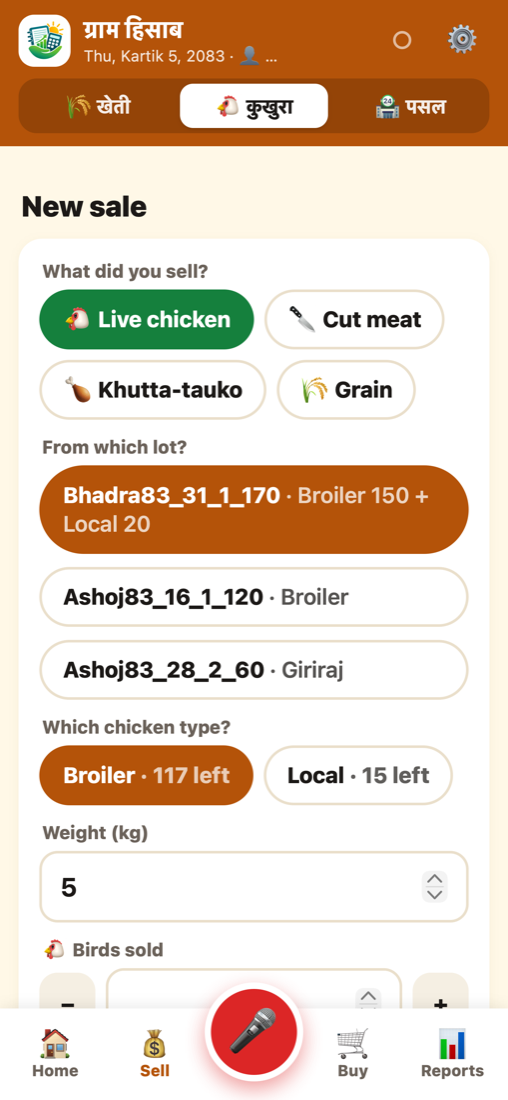
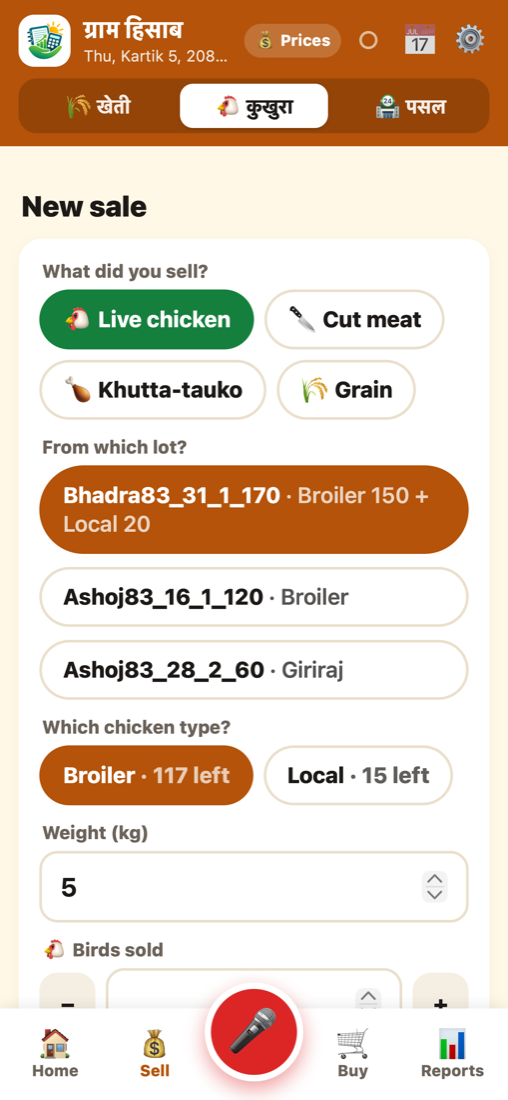
Nepali calendar (पात्रो): month view with entry dots and totals, day details incl. Kheti, 📅 date picker in every form, AD⇄BS converter

diff --git a/assets/calendar.js b/assets/calendar.js
@@ -1,0 +1,153 @@
+/* Gram Hisab — 📅 Nepali calendar (पात्रो)
+   1) A month view (header 📅): BS days in Devanagari with the AD date small, Saturdays in red, today ringed,
+      dots for days that have Kheti / poultry / shop entries, month totals; tap a day to see everything on it.
+   2) A tap-to-pick calendar under every date field (the 📅 button next to the day / month / year boxes).
+   3) AD ⇄ BS date converter. */
+'use strict';
+
+const NE_DIGITS = '०१२३४५६७८९';
+const neNum = n => String(n).replace(/\d/g, d => NE_DIGITS[d]);
+const WEEK_NE = ['आइत', 'सोम', 'मङ्गल', 'बुध', 'बिही', 'शुक्र', 'शनि'];
+const AD_MON = ['Jan', 'Feb', 'Mar', 'Apr', 'May', 'Jun', 'Jul', 'Aug', 'Sep', 'Oct', 'Nov', 'Dec'];
+const POULTRY_KINDS = ['sale', 'grainsale', 'purchase', 'event'];
+const weekday = ad => new Date(ad + 'T12:00:00').getDay();
+let calYM = null;
+
+// money spent on Kheti by one record (wages, machine + fuel, seed / fertilizer)
+function khetiCostOf(r) {
+  if (r.kind === 'fwork') return Number(r.amount) || (typeof fworkAmount === 'function' ? fworkAmount(r) : 0);
+  if (r.kind === 'machine') return (Number(r.hireAmount) || 0) + (Number(r.fuelCost) || 0);
+  if (r.kind === 'finput') return Number(r.cost) || 0;
+  return 0;
+}
+// what happened on each day of a BS month: { adDate: {kheti, poultry, shop} } plus month totals
+function monthMarks(y, m) {
+  const from = bsToAd(y, m, 1), to = bsToAd(y, m, bsDays(y, m));
+  const marks = {}, tot = { sales: 0, kheti: 0, shop: 0, bought: 0 };
+  for (const id in db.records) {
+    const r = db.records[id];
+    if (hidden(r) || !r.date || r.date < from || r.date > to || r.kind === 'audit' || r.kind === 'setting') continue;
+    const k = marks[r.date] || (marks[r.date] = {});
+    if (typeof KHETI_KINDS !== 'undefined' && KHETI_KINDS.includes(r.kind)) { k.kheti = 1; tot.kheti += khetiCostOf(r); }
+    else if (POULTRY_KINDS.includes(r.kind)) { k.poultry = 1; if (r.kind === 'sale' || r.kind === 'grainsale') tot.sales += Number(r.amount) || 0; if (r.kind === 'purchase') tot.bought += Number(r.amount) || 0; }
+    else if (r.kind === 'shop') { k.shop = 1; tot.shop += (Number(r.cash) || 0) + (Number(r.qr) || 0); }
+  }
+  return { marks, tot };
+}
+function adRangeLabel(y, m) {
+  const a = bsToAd(y, m, 1).split('-').map(Number), b = bsToAd(y, m, bsDays(y, m)).split('-').map(Number);
+  return a[0] === b[0] ? `${AD_MON[a[1] - 1]}/${AD_MON[b[1] - 1]} ${a[0]}` : `${AD_MON[a[1] - 1]} ${a[0]} / ${AD_MON[b[1] - 1]} ${b[0]}`;
+}
+function shiftMonth(y, m, n) { m += n; while (m > 12) { m -= 12; y++; } while (m < 1) { m += 12; y--; } return [Math.min(BS_LAST_YEAR, Math.max(BS_FIRST_YEAR, y)), m]; }
+
+// the grid used by both the month view and the date picker
+function calGridHtml(y, m, o) {
+  const first = bsToAd(y, m, 1), n = bsDays(y, m), t = today(), marks = o.marks || {};
+  let cells = '';
+  for (let i = 0; i < weekday(first); i++) cells += '<span class="cal-e"></span>';
+  for (let d = 1; d <= n; d++) {
+    const ad = addDays(first, d - 1), mk = marks[ad] || {}, wd = weekday(ad);
+    const cls = ['cal-d', ad === t ? 'today' : '', ad === o.selected ? 'sel' : '', wd === 6 ? 'sat' : '', o.maxDate && ad > o.maxDate ? 'off' : ''].filter(Boolean).join(' ');
+    cells += `<button class="${cls}" data-act="${o.act}" data-d="${ad}"${o.key ? ` data-key="${o.key}"` : ''}><b>${neNum(d)}</b><small>${Number(ad.slice(8))}</small>${o.marks ? `<i>${mk.kheti ? '<u class="dk"></u>' : ''}${mk.poultry ? '<u class="dp"></u>' : ''}${mk.shop ? '<u class="ds"></u>' : ''}</i>` : ''}</button>`;
+  }
+  return `<div class="cal-grid">${WEEK_NE.map((w, i) => `<span class="cal-h${i === 6 ? ' sat' : ''}">${w}</span>`).join('')}${cells}</div>`;
+}
+
+// ---------- 1) month view ----------
+function openCalendar(ad) {
+  const b = adToBs(ad || today());
+  calYM = [b.y, b.m];
+  renderCalendar();
+}
+function renderCalendar() {
+  const [y, m] = calYM, { marks, tot } = monthMarks(y, m), tb = adToBs(today());
+  const [py, pm] = shiftMonth(y, m, -1), [ny, nm] = shiftMonth(y, m, 1);
+  openSheet(`<div class="row between" style="align-items:center">
+      <button class="btn sm ghost" data-act="calNav" data-y="${py}" data-m="${pm}">‹ ${BS_MONTHS_NE[pm - 1]}</button>
+      <div style="text-align:center"><div style="font-size:24px;font-weight:900">${BS_MONTHS_NE[m - 1]} ${neNum(y)}</div><div class="small muted">${BS_MONTHS[m - 1]} ${y} · ${adRangeLabel(y, m)}</div></div>
+      <button class="btn sm ghost" data-act="calNav" data-y="${ny}" data-m="${nm}">${BS_MONTHS_NE[nm - 1]} ›</button></div>
+    ${calGridHtml(y, m, { act: 'calDay', marks })}
+    <div class="cal-legend small muted"><span><u class="dk"></u> Kheti</span><span><u class="dp"></u> Poultry</span><span><u class="ds"></u> Shop</span>${y !== tb.y || m !== tb.m ? `<button class="chip sm" data-act="calNav" data-y="${tb.y}" data-m="${tb.m}">Today</button>` : ''}</div>
+    <div class="summary small">
+      ${tot.kheti ? `<div class="line"><span>🌾 Kheti spent</span><b style="color:var(--red)">${money(tot.kheti)}</b></div>` : ''}
+      ${tot.sales ? `<div class="line"><span>🐔 Poultry sales</span><b style="color:var(--green)">${money(tot.sales)}</b></div>` : ''}
+      ${tot.bought ? `<div class="line"><span>🛒 Poultry bought</span><b style="color:var(--red)">${money(tot.bought)}</b></div>` : ''}
+      ${tot.shop ? `<div class="line"><span>🏪 Shop collected</span><b style="color:var(--green)">${money(tot.shop)}</b></div>` : ''}
+      ${tot.kheti || tot.sales || tot.bought || tot.shop ? '' : '<div class="line"><span class="muted">Nothing recorded this month</span></div>'}
+    </div>
+    <p class="small muted">Tap a day to see everything recorded on it.</p>
+    <h3>🔁 Date converter</h3>
+    <div class="grid2" id="calConv">
+      <div class="field"><label>English date (AD)</label><input type="date" data-calconv="ad" value="${today()}" min="1943-04-14" max="${bsToAd(BS_LAST_YEAR, 12, bsDays(BS_LAST_YEAR, 12))}"></div>
+      <div class="field"><label>नेपाली (BS)</label><div class="convout" id="calConvOut">${convText(today())}</div></div>
+    </div>
+    <button class="btn big primary" data-act="closeSheet">Close</button>`);
+}
+function convText(ad) {
+  const b = ad && adToBs(ad);
+  if (!b) return '—';
+  return `<b>${BS_MONTHS_NE[b.m - 1]} ${neNum(b.d)}, ${neNum(b.y)}</b><br><span class="small muted">${BS_MONTHS[b.m - 1]} ${b.d}, ${b.y} · ${WEEK_NE[weekday(ad)]}बार</span>`;
+}
+
+// the day sheet (ui.js openDay) calls this to add the Kheti part
+function dayKhetiHtml(date) {
+  if (typeof KHETI_KINDS === 'undefined') return { line: '', list: '' };
+  const recs = Object.values(db.records).filter(r => !hidden(r) && r.date === date && KHETI_KINDS.includes(r.kind) && r.kind !== 'worker' && r.kind !== 'field')
+    .sort((a, b) => a.createdAt - b.createdAt);
+  if (!recs.length) return { line: '', list: '' };
+  const spent = recs.reduce((a, r) => a + khetiCostOf(r), 0);
+  return { line: `<div class="line"><span>🌾 Kheti (${recs.length} ${recs.length > 1 ? 'entries' : 'entry'})</span><b style="color:var(--red)">${spent ? money(spent) + ' spent' : ''}</b></div>`, list: `<h3>🌾 Kheti</h3>${recs.map(kItemHtml).join('')}` };
+}
+
+// ---------- 2) tap-to-pick calendar under a date field ----------
+function bsCalToggle(key) {
+  const box = document.querySelector(`[data-bscalbox="${key}"]`), wrap = document.querySelector(`[data-bsdate="${key}"]`);
+  if (!box || !wrap) return;
+  if (box.innerHTML) { box.innerHTML = ''; return; }
+  const ad = readBsDate(wrap), b = adToBs(ad);
+  box.innerHTML = bsCalPickHtml(key, b.y, b.m, ad);
+}
+function bsCalPickHtml(key, y, m, selected) {
+  const [py, pm] = shiftMonth(y, m, -1), [ny, nm] = shiftMonth(y, m, 1);
+  return `<div class="cal-pick"><div class="row between" style="align-items:center;margin-bottom:6px">
+      <button class="chip sm" data-act="bsCalNav" data-key="${key}" data-y="${py}" data-m="${pm}">‹</button>
+      <b>${BS_MONTHS_NE[m - 1]} ${neNum(y)} <span class="small muted">· ${adRangeLabel(y, m)}</span></b>
+      <button class="chip sm" data-act="bsCalNav" data-key="${key}" data-y="${ny}" data-m="${nm}">›</button></div>
+    ${calGridHtml(y, m, { act: 'bsCalPick', key, selected })}</div>`;
+}
+// put a date into a field's day / month / year boxes (and the form behind it)
+function bsSetDate(key, ad) {
+  const wrap = document.querySelector(`[data-bsdate="${key}"]`);
+  if (!wrap) return;
+  const b = adToBs(ad), ys = wrap.querySelector('[data-bsp=y]');
+  if (![...ys.options].some(o => Number(o.value) === b.y)) { ys.add(new Option(b.y, b.y)); [...ys.options].sort((p, q) => p.value - q.value).forEach(o => ys.appendChild(o)); }
+  ys.value = b.y;
+  wrap.querySelector('[data-bsp=m]').value = b.m;
+  bsDateChanged(wrap.querySelector('[data-bsp=m]'));
+  wrap.querySelector('[data-bsp=d]').value = b.d;
+  bsDateChanged(wrap.querySelector('[data-bsp=d]'));
+}
+
+function calendarClick(act, b) {
+  switch (act) {
+    case 'openCalendar': openCalendar(b.dataset.d); return true;
+    case 'calNav': calYM = [Number(b.dataset.y), Number(b.dataset.m)]; renderCalendar(); return true;
+    case 'calDay': openDay(b.dataset.d, null, true); return true;
+    case 'bsCalToggle': bsCalToggle(b.dataset.key); return true;
+    case 'bsCalNav': {
+      const box = document.querySelector(`[data-bscalbox="${b.dataset.key}"]`), wrap = document.querySelector(`[data-bsdate="${b.dataset.key}"]`);
+      if (box) box.innerHTML = bsCalPickHtml(b.dataset.key, Number(b.dataset.y), Number(b.dataset.m), wrap ? readBsDate(wrap) : '');
+      return true;
+    }
+    case 'bsCalPick': {
+      const box = document.querySelector(`[data-bscalbox="${b.dataset.key}"]`);
+      bsSetDate(b.dataset.key, b.dataset.d);
+      if (box) box.innerHTML = '';
+      return true;
+    }
+  }
+  return false;
+}
+document.addEventListener('input', e => {
+  if (e.target.dataset.calconv) { const o = document.getElementById('calConvOut'); if (o) o.innerHTML = convText(e.target.value); }
+});

diff --git a/assets/ui.js b/assets/ui.js
@@ -683,7 +683,7 @@ function lotDailyHtml(l) {
       <div class="summary small" style="margin-top:6px">${list.map(d => `<div class="line" data-act="dayDetail" data-d="${d}" data-id="${l.id}" style="cursor:pointer"><span><b>${fmtDate(d, true)}</b><br><span class="muted">${byDay[d].n} sale${byDay[d].n > 1 ? 's' : ''} · ${kgs(byDay[d].kg)} · ${byDay[d].birds} birds</span></span><b style="color:var(--green)">${money(byDay[d].amount)} ›</b></div>`).join('')}</div></details>` : ''}`;
 }
 // everything recorded on one day (optionally for one lot)
-function openDay(date, lotId) {
+function openDay(date, lotId, fromCal) {
   const lot = lotId ? lotById(lotId) : null;
   const inLot = r => !lotId || r.lotId === lotId;
   const day = Object.values(db.records).filter(r => !hidden(r) && r.date === date && inLot(r));
@@ -696,9 +696,13 @@ function openDay(date, lotId) {
   const perLot = {};
   if (!lotId) sales.filter(r => r.lotId).forEach(r => { perLot[r.lotId] = (perLot[r.lotId] || 0) + (Number(r.amount) || 0); });
   const sh = shopSum(shop);
-  openSheet(`${lot ? `<button class="btn sm ghost" data-act="openLot" data-id="${lot.id}">‹ Back to ${esc(lot.name)}</button>` : ''}
+  const kh = lotId ? { line: '', list: '' } : dayKhetiHtml(date);
+  const wd = WEEK_NE[weekday(date)] + 'बार', bb = adToBs(date);
+  openSheet(`${lot ? `<button class="btn sm ghost" data-act="openLot" data-id="${lot.id}">‹ Back to ${esc(lot.name)}</button>` : `<button class="btn sm ghost" data-act="openCalendar" data-d="${date}">‹ 📅 ${BS_MONTHS_NE[bb.m - 1]} ${neNum(bb.y)}</button>`}
     <h2>${fmtDate(date, true)}${lot ? ' · ' + esc(lot.name) : ''}</h2>
+    <div class="small muted" style="margin:-6px 0 10px">${BS_MONTHS_NE[bb.m - 1]} ${neNum(bb.d)}, ${neNum(bb.y)} · ${wd} · AD ${date}</div>
     <div class="summary">
+      ${kh.line}
       <div class="line"><span><b>Sales</b> (${sales.length})</span><b style="font-size:22px;color:var(--green)">${money(sum(sales, 'amount'))}</b></div>
       ${by('live').length ? `<div class="line"><span>🐔 Live</span><b>${kgs(sum(by('live'), 'kg'))} · ${sum(by('live'), 'birds')} birds · ${money(sum(by('live'), 'amount'))}</b></div>` : ''}
       ${by('meat').length ? `<div class="line"><span>🔪 Meat</span><b>${kgs(sum(by('meat'), 'kg'))} · ${sum(by('meat'), 'birds')} cut · ${money(sum(by('meat'), 'amount'))}</b></div>` : ''}
@@ -708,13 +712,14 @@ function openDay(date, lotId) {
       ${buys.length ? `<div class="line"><span><b>Bought</b> (${buys.length})</span><b style="color:var(--red)">${money(sum(buys, 'amount'))}</b></div>` : ''}
       ${shop.length ? `<div class="line"><span>🏪 Shop collected</span><b>${money(sh.total)} <span class="small muted">(goods ${money(sh.goods)})</span></b></div>` : ''}
     </div>
-    ${sales.length ? `<h3>💰 Sales</h3>${sales.sort((a, b) => a.createdAt - b.createdAt).map(itemHtml).join('')}` : '<p class="muted">No sales this day.</p>'}
+    ${kh.list}
+    ${sales.length ? `<h3>💰 Sales</h3>${sales.sort((a, b) => a.createdAt - b.createdAt).map(itemHtml).join('')}` : lotId ? '<p class="muted">No sales this day.</p>' : ''}
     ${buys.length ? `<h3>🛒 Purchases</h3>${buys.map(itemHtml).join('')}` : ''}
     ${proc.length ? `<h3>📝 Process</h3>${proc.map(itemHtml).join('')}` : ''}
     ${shop.length ? `<h3>🏪 Shop</h3>${shop.map(r => `<button class="item" data-act="editShopFromDay" data-id="${r.id}"><div class="ic" style="background:var(--green-l)">🏪</div><div class="mid"><div class="t">Collected ${money((Number(r.cash) || 0) + (Number(r.qr) || 0))}${r.goods ? ' · Goods ' + money(r.goods) : ''}</div><div class="s">Cash ${money(r.cash)} · QR ${money(r.qr)} · ${whoWhen(r)}</div></div></button>`).join('')}` : ''}
     <div style="height:10px"></div>
-    <div class="btnrow"><button class="btn ghost" data-act="dayShift" data-d="${addDays(date, -1)}" data-id="${lotId || ''}">‹ ${esc(fmtDate(addDays(date, -1)))}</button>
-      ${date < today() ? `<button class="btn ghost" data-act="dayShift" data-d="${addDays(date, 1)}" data-id="${lotId || ''}">${esc(fmtDate(addDays(date, 1)))} ›</button>` : ''}</div>
+    <div class="btnrow"><button class="btn ghost" data-act="${fromCal ? 'calDay' : 'dayShift'}" data-d="${addDays(date, -1)}" data-id="${lotId || ''}">‹ ${esc(fmtDate(addDays(date, -1)))}</button>
+      ${date < today() || fromCal ? `<button class="btn ghost" data-act="${fromCal ? 'calDay' : 'dayShift'}" data-d="${addDays(date, 1)}" data-id="${lotId || ''}">${esc(fmtDate(addDays(date, 1)))} ›</button>` : ''}</div>
     <div style="height:10px"></div><button class="btn big primary" data-act="closeSheet">Close</button>`);
 }
 
@@ -1031,9 +1036,11 @@ function bsDateHtml(key, adIso) {
     </div>
     <div class="row between" style="margin-top:6px">
       <div class="chips"><button class="chip sm ${adIso === today() ? 'on' : ''}" data-act="bsQuick" data-key="${key}" data-days="0">Today</button>
-      <button class="chip sm ${adIso === addDays(today(), -1) ? 'on' : ''}" data-act="bsQuick" data-key="${key}" data-days="-1">Yesterday</button></div>
+      <button class="chip sm ${adIso === addDays(today(), -1) ? 'on' : ''}" data-act="bsQuick" data-key="${key}" data-days="-1">Yesterday</button>
+      <button class="chip sm" data-act="bsCalToggle" data-key="${key}">📅 पात्रो</button></div>
       <span class="hint" data-bshint="${key}">AD ${adIso}</span>
-    </div>`;
+    </div>
+    <div data-bscalbox="${key}"></div>`;
 }
 
 function readBsDate(wrap) {
@@ -1328,7 +1335,7 @@ document.addEventListener('click', e => {
   if (!b) return;
   const act = b.dataset.act, id = b.dataset.id, v = b.dataset.v;
   if (b.tagName === 'A') e.preventDefault();
-  if (khetiClick(act, b)) return;
+  if (khetiClick(act, b) || calendarClick(act, b)) return;
   switch (act) {
     case 'go': closeSheet(); go(b.dataset.view); break;
     case 'mic': if (listening) cancelListening(); else listen(); break;

diff --git a/assets/app.css b/assets/app.css
@@ -235,3 +235,29 @@ body.sec-shop .navbtn.on{color:#1E40AF}
 .area-in input:focus{outline:none;border-color:var(--green)}
 .kacts{display:grid;grid-template-columns:repeat(4,minmax(0,1fr));gap:6px;margin-top:12px}
 .kacts .btn{min-width:0;padding:8px 2px;font-size:14px;line-height:1.2}
+
+/* 📅 Nepali calendar */
+.cal-grid{display:grid;grid-template-columns:repeat(7,minmax(0,1fr));gap:4px;margin:10px 0}
+.cal-h{text-align:center;font-size:12px;font-weight:900;color:var(--muted);padding:2px 0}
+.cal-h.sat,.cal-d.sat b{color:var(--red)}
+.cal-d{position:relative;display:flex;flex-direction:column;align-items:center;justify-content:center;min-height:52px;border-radius:12px;background:#fff;border:2px solid var(--line);padding:3px 0 6px;min-width:0}
+.cal-d b{font-size:19px;font-weight:900;line-height:1.1}
+.cal-d small{font-size:10px;color:var(--muted);font-weight:700}
+.cal-d i{position:absolute;bottom:3px;display:flex;gap:2px}
+.cal-d.today{border-color:var(--green);box-shadow:0 0 0 2px var(--green-l)}
+.cal-d.sel{background:var(--green);border-color:var(--green)}
+.cal-d.sel b,.cal-d.sel small{color:#fff}
+.cal-d.off{opacity:.45}
+.cal-legend{display:flex;gap:12px;align-items:center;flex-wrap:wrap;margin-bottom:10px}
+u.dk,u.dp,u.ds{display:inline-block;width:7px;height:7px;border-radius:50%;text-decoration:none}
+u.dk{background:#16A34A}u.dp{background:#F59E0B}u.ds{background:#2563EB}
+.cal-pick{background:#F5EFE3;border-radius:14px;padding:8px;margin-top:8px}
+.cal-pick .cal-d{min-height:42px}
+.convout{border:2px solid var(--line);border-radius:12px;padding:8px 10px;background:#fff;min-height:52px}
+#top .iconbtn{width:38px}
+.bsdate + .row{flex-wrap:wrap;gap:6px}
+[data-bshint]{white-space:nowrap}
+#top .brand{flex:1 1 0;min-width:0}
+#top .brand>div{min-width:0}
+#top .topright{flex:none}
+@media (max-width:400px){ #top .pricechip{padding:6px 8px;font-size:12px} #top .iconbtn{width:34px} }

diff --git a/assets/flows.js b/assets/flows.js
@@ -56,6 +56,8 @@ function handleInput(alts, origin) {
   // On the Shop page, amounts without farm words are shop entries ("cash 5000 qr 3000", "नगद ५०००")
   if (typeof view !== 'undefined' && view === 'shop')
     alts = alts.map(a => /\b(kg|kilo|lot|dead|died|feed|dana|chicken|kukhura|masu|live|sold|bought)\b|केजी|किलो|कुखुरा|मासु|मरे|दाना|बेच/i.test(a) ? a : 'shop ' + a);
+  // "patro", "calendar", "पात्रो" → the Nepali calendar
+  if (alts.some(a => /^\s*(?:(?:aaja|aja|today|आज)\s*(?:ko)?\s*)?(?:patro|patra|calendar|calender|पात्रो|पत्रो|miti|मिति)(?:\s+(?:kholnu(?:s|hos)?|khola|open|show|dekhau))?\s*$/i.test(a))) { openCalendar(); if (voiceMode) { const b = adToBs(today()); speak(`Today is ${BS_MONTHS[b.m - 1]} ${b.d}, ${b.y}.`); } return; }
   // Kheti words (or the Kheti section): try the Kheti parser first
   if (typeof parseKheti === 'function' && ((typeof section !== 'undefined' && section === 'kheti') || alts.some(khetiLikely))) {
     for (const a of alts) { const kp = parseKheti(a); if (kp) { flowKheti(kp, voiceMode); return; } }

diff --git a/assets/index.html b/assets/index.html
@@ -18,6 +18,7 @@
   <div class="topright">
     <button class="pricechip" id="priceChip" data-act="editPrice"></button>
     <button class="iconbtn" id="syncBtn" data-act="syncNow" aria-label="Sync"><span id="syncDot" class="dot off"></span></button>
+    <button class="iconbtn" data-act="openCalendar" aria-label="Nepali calendar">📅</button>
     <button class="iconbtn" data-act="go" data-view="settings" aria-label="Settings">⚙</button>
   </div>
   <div id="secbar" class="secbar"></div>
@@ -69,6 +70,7 @@
 <script src="kheti.js"></script>
 <script src="kheti-ui.js"></script>
 <script src="kheti-voice.js"></script>
+<script src="calendar.js"></script>
 <script src="ui.js"></script>
 </body>
 </html>

diff --git a/assets/kheti-ui.js b/assets/kheti-ui.js
@@ -540,6 +540,7 @@ function setSection(s) {
   section = s;
   document.body.className = document.body.className.replace(/\bsec-\w+/g, '').trim() + ' sec-' + s;
   renderSecbar(); renderNav();
+  const pc = $('#priceChip'); if (pc) pc.classList.toggle('hidden', s !== 'poultry');
 }
 function renderSecbar() {
   const el = $('#secbar');

diff --git a/assets/core.js b/assets/core.js
@@ -2,7 +2,7 @@
 'use strict';
 
 const HAS_ANDROID = typeof window.Android !== 'undefined';
-const APP_VERSION = '2.1.0';
+const APP_VERSION = '2.2.0';
 
 // ---------- small utils ----------
 const $ = (sel, el) => (el || document).querySelector(sel);
